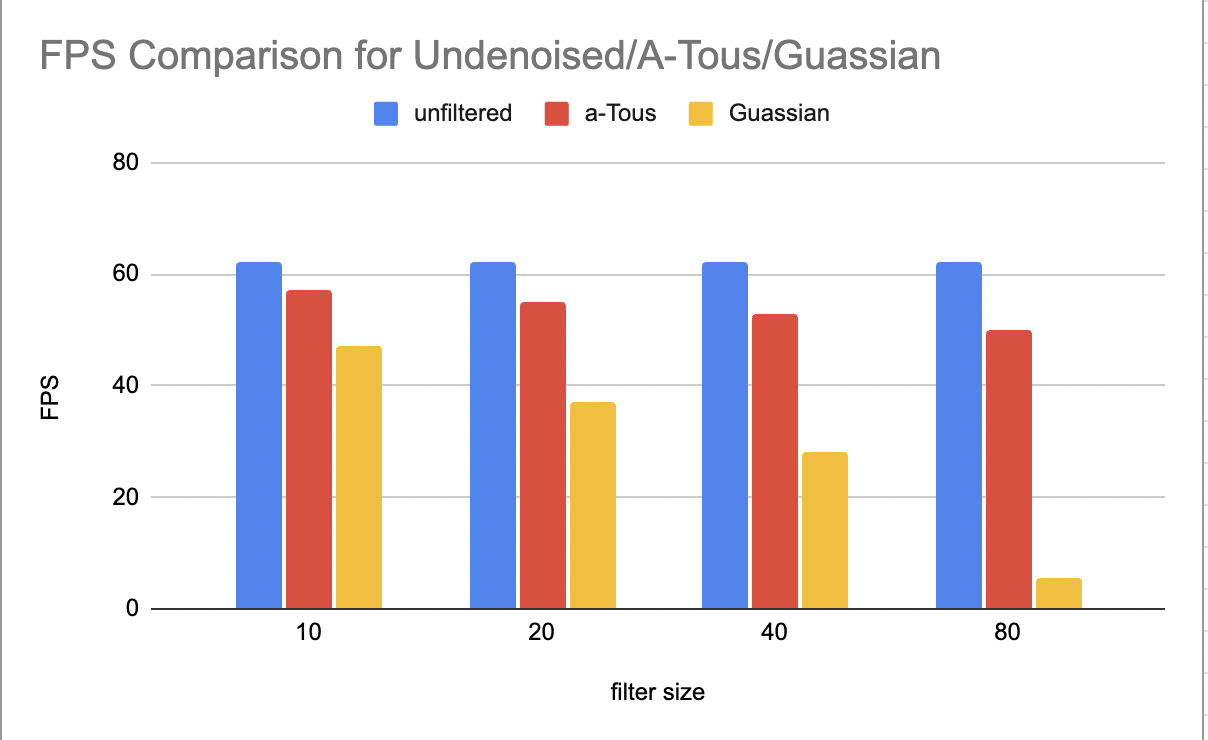
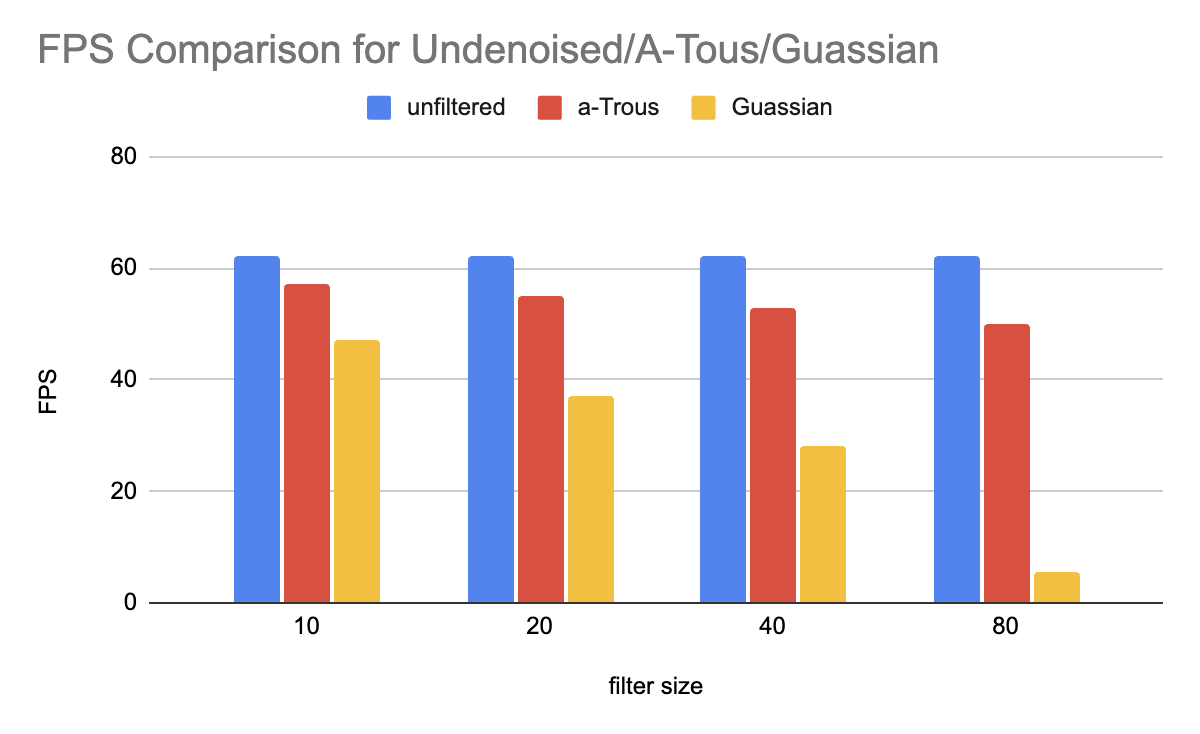
minor correction

diff --git a/README.md b/README.md
@@ -7,6 +7,8 @@ CUDA Denoiser For CUDA Path Tracer
   * [LinkedIn](https://www.linkedin.com/in/xiaoxiao-zou-23482a1b9/)
 * Tested on: Windows 11, AMD Ryzen 9 7940HS @ 4.00 GHz, RTX 4060 Laptop 
 
+Implement Edge avoiding A-Trous wavelet transform and Edge avoiding Guassian filtering
+
 ### Performance & Analysis
 
 <table>
@@ -61,7 +63,7 @@ Denoising will give an "acceptably smooth" result at lower iteration as shown ab
 ![](./img/filter_size.png)
 ![](./img/resolution.png)
 
-Denoising will add more time to the renders. For A-tous, it usually slow down the renderer about 10-20FPS. For Guassian, it slower the renderer a lot especially when the filter size is large. Larger filter size will genuinely add more time to the renders. For A-Tous, it adds slightly more time since number of levels need to compute did not increase much as the filter size goes larger and larger. However, for guassian, FPS get a huge markdown due to increasing size of kernel. For resolution, smaller resolution will give better runtime for both unfiltered and denoised image. Denoising will be a good technique for smaller resolution since the image will be blurry anyway for small image, this gives a better approximation for image. 
+Denoising will add more time to the renders. For A-tous, it usually slow down the renderer about 10-20FPS. For Guassian, it slower the renderer a lot especially when the filter size is large. Larger filter size will genuinely add more time to the renders. For A-Trous, it adds slightly more time since number of levels need to compute did not increase much as the filter size goes larger and larger. However, for guassian, FPS get a huge markdown due to increasing size of kernel. For resolution, smaller resolution will give better runtime for both unfiltered and denoised image. Denoising will be a good technique for smaller resolution since the image will be blurry anyway for small image, this gives a better approximation for image. 
 
 #### Denoising Visual effect - Filter size, material type, etc.
 
